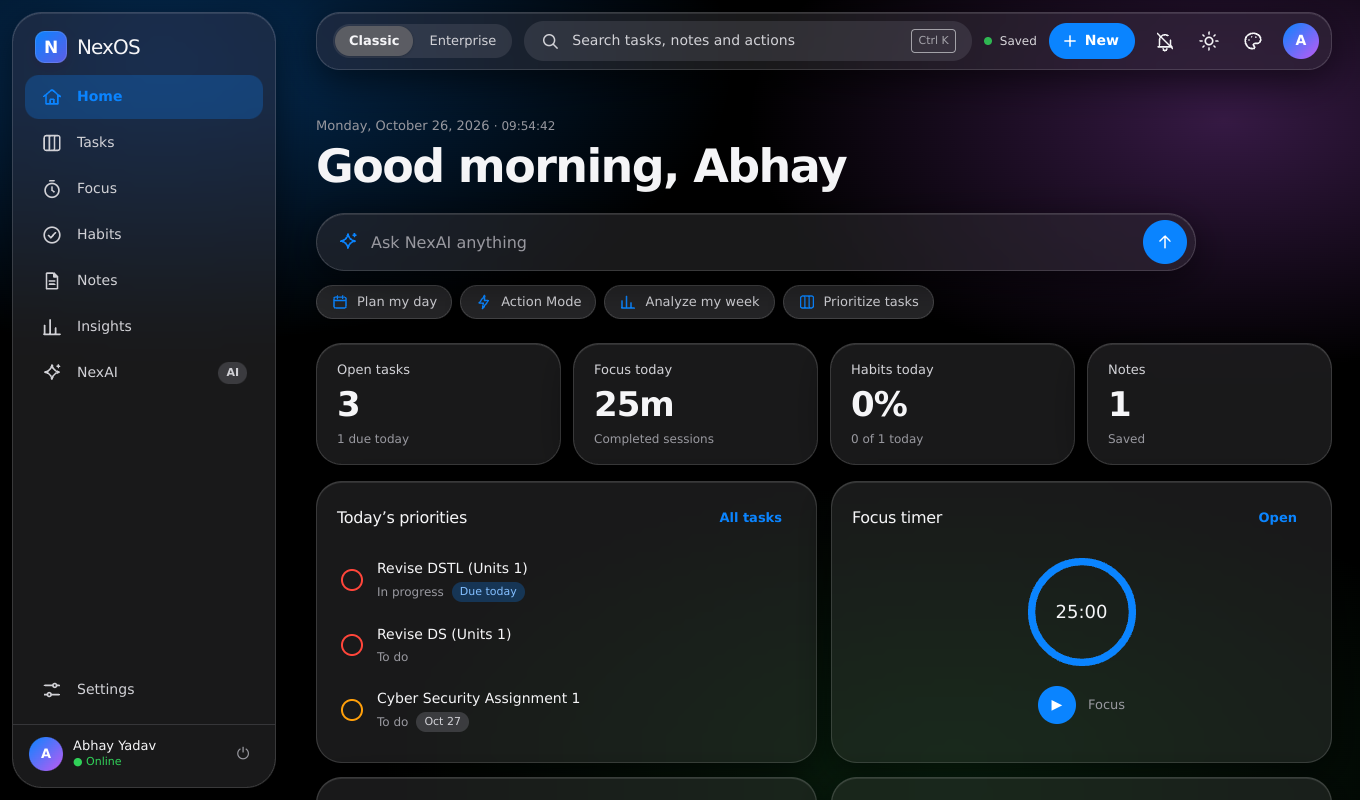
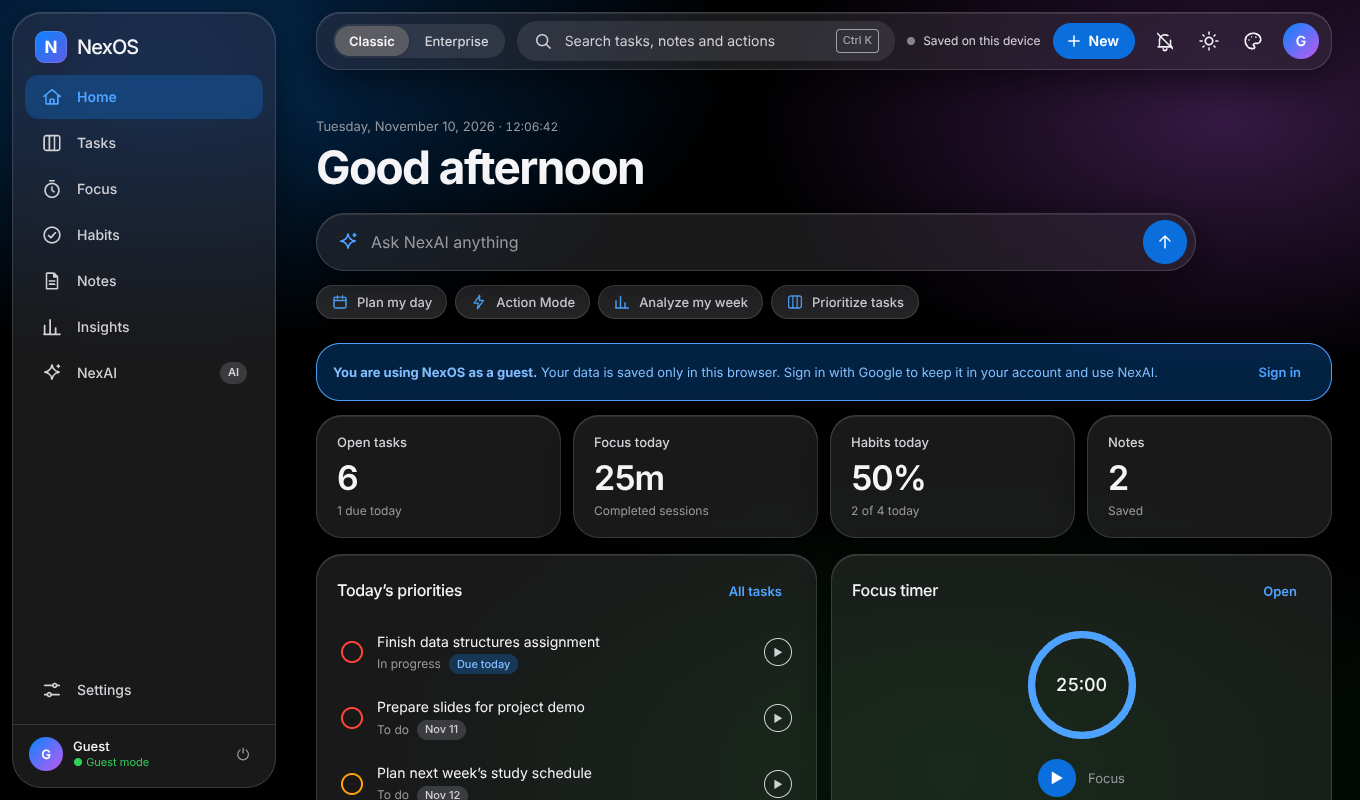
Refreshed Screenshots

diff --git a/README.md b/README.md
@@ -42,7 +42,7 @@ NexOS is developed independently, with AI used as a pair-programming tool.
 |:---:|:---:|:---:|:---:|
 | ![Classic NexAI on a phone](docs/screenshots/classic-nexai.png) | ![Enterprise NexAI on a phone with an attached file and a microphone button](docs/screenshots/enterprise-nexai-attach.png) | ![NexAI Action Mode with a microphone button](docs/screenshots/enterprise-action-mode.png) | ![Recently deleted page](docs/screenshots/recovery-center.png) |
 
-*These screenshots were taken in guest mode with sample data, so NexAI shows its sign-in prompt instead of a saved conversation.*
+*All screenshots were taken in guest mode with sample data, not a real account. The NexAI conversation in the Classic desktop screenshot is an example written for this README, and the phone NexAI screenshots show the guest sign-in prompt.*
 
 ---
 
